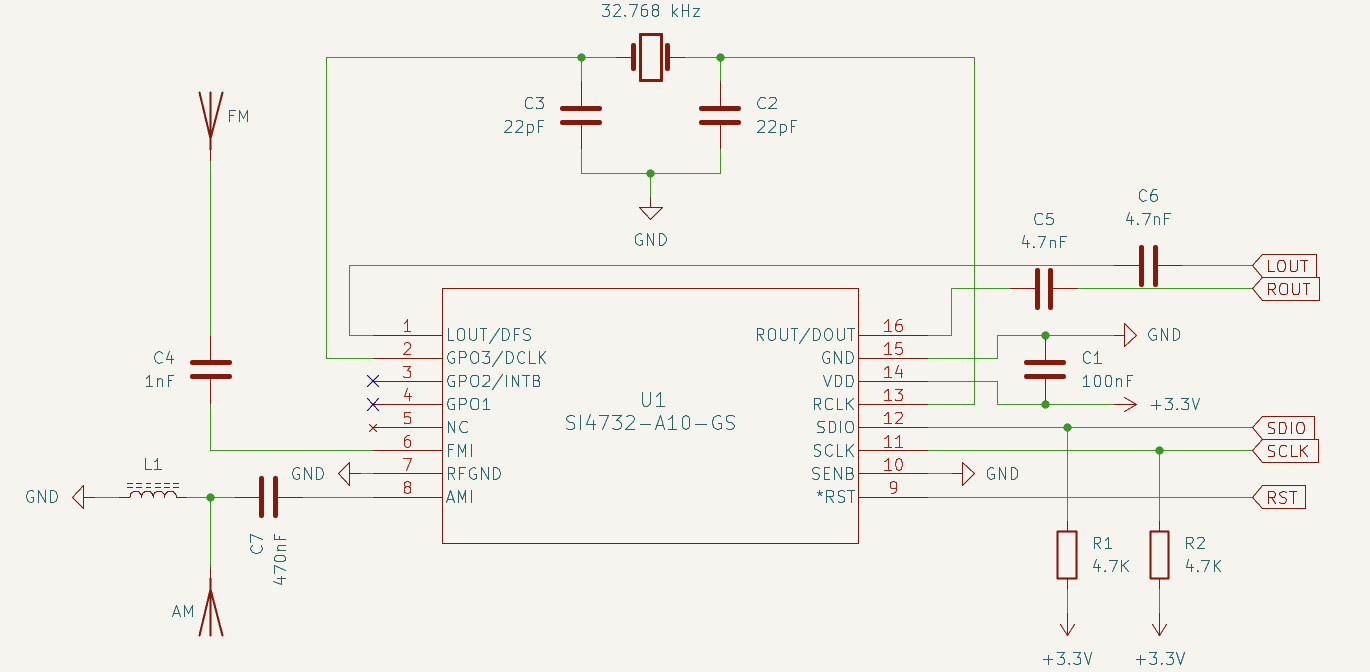
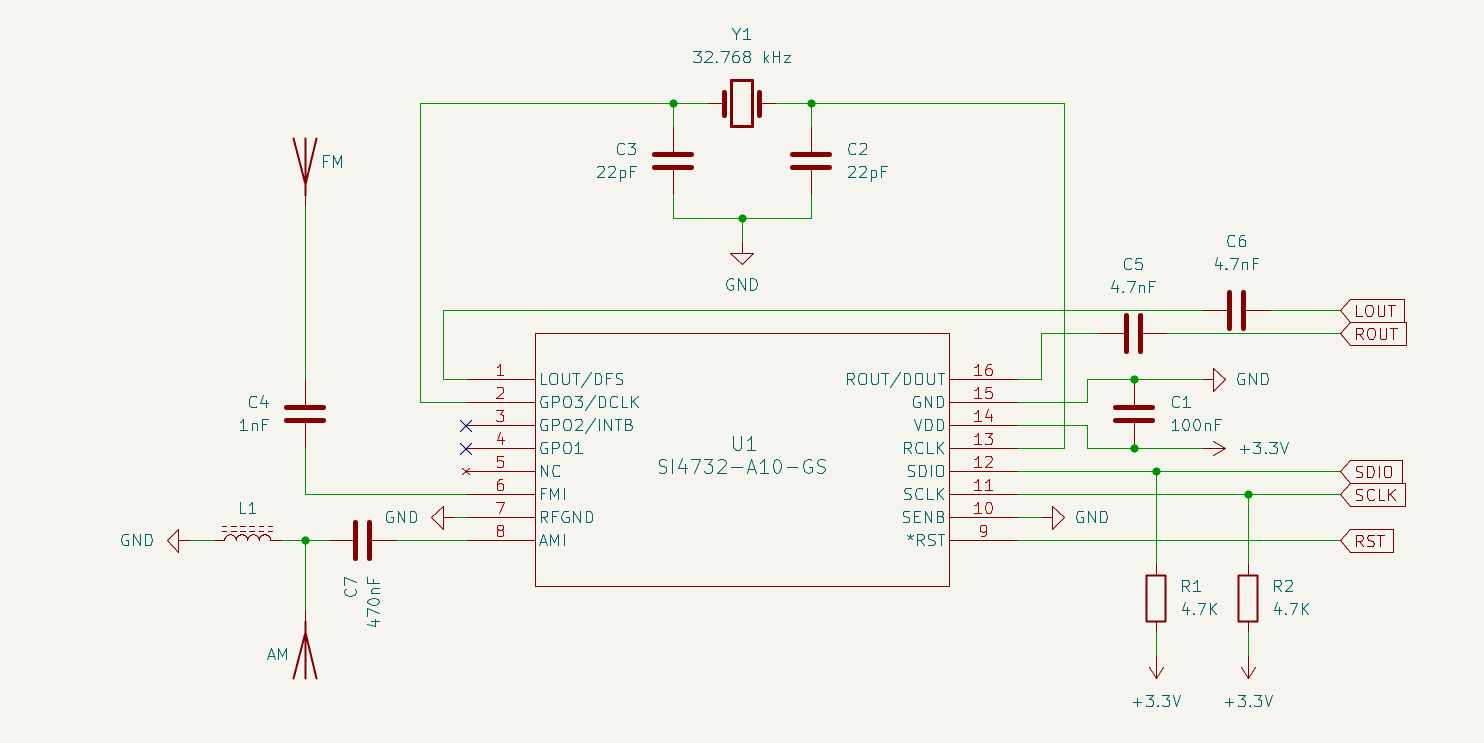
Save changes at: 1779965372

diff --git a/public/electronic/integrated-circuit/avr-dx/si4732/index.html b/public/electronic/integrated-circuit/avr-dx/si4732/index.html
@@ -141,6 +141,8 @@
 <li><a href="https://garrysblog.com/2026/02/19/thoughts-after-building-a-si4732-receiver/">https://garrysblog.com/2026/02/19/thoughts-after-building-a-si4732-receiver/</a></li>
 <li><a href="https://peterneufeld.wordpress.com/2025/06/13/si4732a-minirx-modifications/">https://peterneufeld.wordpress.com/2025/06/13/si4732a-minirx-modifications/</a></li>
 </ul>
+<p>A continuación muestro un diagrama esquemático:</p>
+<p><img src="schematic.png" alt=""></p>
 <h2 id="código-fuente">Código fuente</h2>
 <p>Para hacerlo funcionar con un microcontrolador <a href="https://nicola.strappazzon.me/electronic/integrated-circuit/avr-dx/new-generation/">AVR128DA28</a> no hay librerías, entonces decidí usar la IA (claude) basándonos en este <a href="https://github.com/pu2clr/SI470X">repositorio</a> para hacer una &ldquo;traducción&rdquo; y luego de varios intentos y correcciones se logró que funcionara.</p>
 <p>El fabricante ofrece además del datasheet, estos documentos para entender el funcionamiento y el buen uso:</p>

diff --git a/content/electronic/integrated-circuit/avr-dx/si4732.md b/content/electronic/integrated-circuit/avr-dx/si4732.md
@@ -21,6 +21,10 @@ Al profundizar en la investigación de este chip, encontré documentación reali
 - [https://garrysblog.com/2026/02/19/thoughts-after-building-a-si4732-receiver/](https://garrysblog.com/2026/02/19/thoughts-after-building-a-si4732-receiver/)
 - [https://peterneufeld.wordpress.com/2025/06/13/si4732a-minirx-modifications/](https://peterneufeld.wordpress.com/2025/06/13/si4732a-minirx-modifications/)
 
+A continuación muestro un diagrama esquemático:
+
+![](schematic.png)
+
 ## Código fuente
 
 Para hacerlo funcionar con un microcontrolador [AVR128DA28](https://nicola.strappazzon.me/electronic/integrated-circuit/avr-dx/new-generation/) no hay librerías, entonces decidí usar la IA (claude) basándonos en este [repositorio](https://github.com/pu2clr/SI470X) para hacer una "traducción" y luego de varios intentos y correcciones se logró que funcionara.
